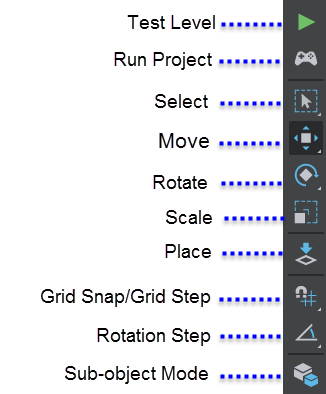
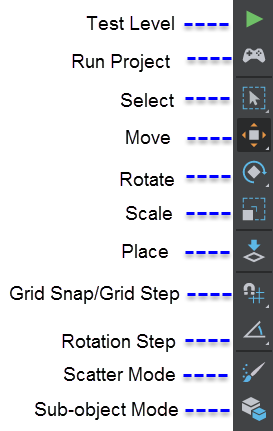
Reorg scatter docs

Changed region(s): [[0.0293, 0.0, 0.9963, 1.0], [0.1172, 0.731, 0.6447, 0.8832], [0.4396, 0.2132, 0.6447, 0.2741]]

diff --git a/source/stingray_help/building_levels/paint_scatter.md b/source/stingray_help/building_levels/paint_scatter.md
@@ -1,22 +1,26 @@
 # Paint with the Scatter Tool
 
+You can use the Scatter tool to randomly scatter the selected unit either as an array or over the surface of an object.
+
+>**Note:** The Scatter tool is available as an automatically loaded plug-in Stingray. If you don't see the Scatter tool mode icon ![](../images/toolbar_icon_scatter.png) in the ~{ Toolbar }~, load the tool manually using the **Plugin Manager** (**Window > Plugin Manager**).
+
 ## To create a scatter brush
 1. Right-click anywhere in the **Asset Browser** and select **Create > Scatter Brush**.
 2. A **Scatter Brush** panel appears in the **Property Editor**.
-3. Click ![](../../images/icon_add_scatter_unit.png) in the bottom right corner.
+3. Click ![](../images/icon_add_scatter_unit.png) in the bottom right corner.
 4. In the **Content Browser** that appears, select a unit to scatter in your scene.
 
 	You can scatter any unit, but scattering units with lights and particle effects may affect performance. It is recommended that you create specific units that are only used with your scatter brush.
 
-5. In the **Toolbar**, click ![](../../images/toolbar_icon_scatter.png).
+5. In the **Toolbar**, click ![](../images/toolbar_icon_scatter.png).
 6. In the **Content Browser** that appears, select your scatter brush.
 
-	 > **Tip:** After you load your first scatter brush, it loads automatically each time you enter **Scatter Tool** mode. If you have more than one brush in your project, right-click ![](../../images/toolbar_icon_scatter.png) and select **Select Brush** to switch brushes.
+	 > **Tip:** After you load your first scatter brush, it loads automatically each time you enter **Scatter Tool** mode. If you have more than one brush in your project, right-click ![](../images/toolbar_icon_scatter.png) and select **Select Brush** to switch brushes.
 
 ## To paint scatter
-1. Load the scatter tool. See ~{ Scatter Tool }~.
-2. Create a scatter brush.
-3. Adjust the ~{ Scatter Tool Properties }~ to control the **Frequency** and **Orientation** of your scatter.
+
+1. Create a scatter brush.
+2. Adjust the ~{ Scatter Tool Properties }~ to control the **Frequency** and **Orientation** of your scatter.
 3. Click-drag the scatter indicator in your scene to paint. You must scatter on an existing unit. You can not scatter in an empty viewport or on units that have existing scatter.
 4. Use the following hotkeys to adjust your scatter brush:
   	- Adjust brush size: B + drag

diff --git a/source/stingray_help/release_notes/readme_1.5.md b/source/stingray_help/release_notes/readme_1.5.md
@@ -69,9 +69,7 @@ We've added some new components for the entity system:
 
 ![](../images/scatter_tool_scene.png)
 
-The new ~{ Scatter Tool }~ plug-in lets you scatter objects in the scene. Quickly build out your level by distributing lightweight units like grass, clumps of flowers, posters, or gas cans by painting with scatter brushes. Modify spawn behavior using the **Scatter Pools Settings**, which apply the selected settings to all of the scatter data in your project at once.
-
-Note: The **Scatter Tool** must be installed manually using the **Plugin Manager**.
+The new **Scatter Tool** plug-in lets you scatter objects in the scene. Quickly build out your level by distributing lightweight units like grass, clumps of flowers, posters, or gas cans by painting with scatter brushes. Modify spawn behavior using the **Scatter Pools Settings**, which apply the selected settings to all of the scatter data in your project at once. See ~{ Paint with the Scatter Tool }~.
 
 ### GearVR and Mini Renderer
 

diff --git a/source/stingray_help/getting_started/common_windows/toolbar.md b/source/stingray_help/getting_started/common_windows/toolbar.md
@@ -40,7 +40,7 @@ The Toolbar displays in the main Stingray Editor window, on the left side of the
 <dd>Activates rotation snapping, letting you use the rotate tool to snap an object to the selected angle increment. See ~{ Snap objects in a level }~.</dd>
 
 <dt>Scatter Tool Mode</dt>
-<dd>Activates Scatter Tool mode, letting you use the **Scatter Tool** to randomly scatter the selected unit as an array or over the surface of an object. See ~{ Scatter Tool }~.</dd>
+<dd>Activates Scatter Tool mode, letting you use the **Scatter Tool** to randomly scatter the selected unit as an array or over the surface of an object. See ~{ Paint with the Scatter Tool }~.</dd>
 
 <dt>Sub-object Mode</dt>
 <dd>Activates sub-object mode, letting you use the **Story Editor** to animate a sub-object within a unit. See ~{ Animate sub-objects with the Story Editor }~.</dd>

diff --git a/source/stingray_help/lighting_rendering/lighting/light_baking/bake_with_beast.md b/source/stingray_help/lighting_rendering/lighting/light_baking/bake_with_beast.md
@@ -1,7 +1,5 @@
 # About baking with Beast
 
-![UPDATED](../../../images/updated.png)
-
 Autodesk Beast is a rendering SDK that simulates lighting and global illumination for games. Stingray comes with a simple, ready-to-use integration of the main lightmap baking features of Beast.
 
 > To see some simple demonstrations of the ways you can set up a Stingray level to use Beast, download the 'Beast Examples' project from the **Online Examples** tab in the ~{ Project Manager }~.

diff --git a/source/stingray_help/building_levels/paint_scatter/scatter_tool_properties.md b/source/stingray_help/building_levels/paint_scatter/scatter_tool_properties.md
@@ -1,6 +1,6 @@
 # Scatter Tool Properties
 
-When you create a new Scatter Brush, the following properties appear in the Property Editor. See ~{ Scatter Tool }~ and ~{ Paint with the Scatter Tool }~ for more information.
+When you create a new Scatter Brush, the following properties appear in the Property Editor. See ~{ Paint with the Scatter Tool }~ for more information.
 
 ![](../../images/scatter_brush_property_ed.png) </dd>
 
